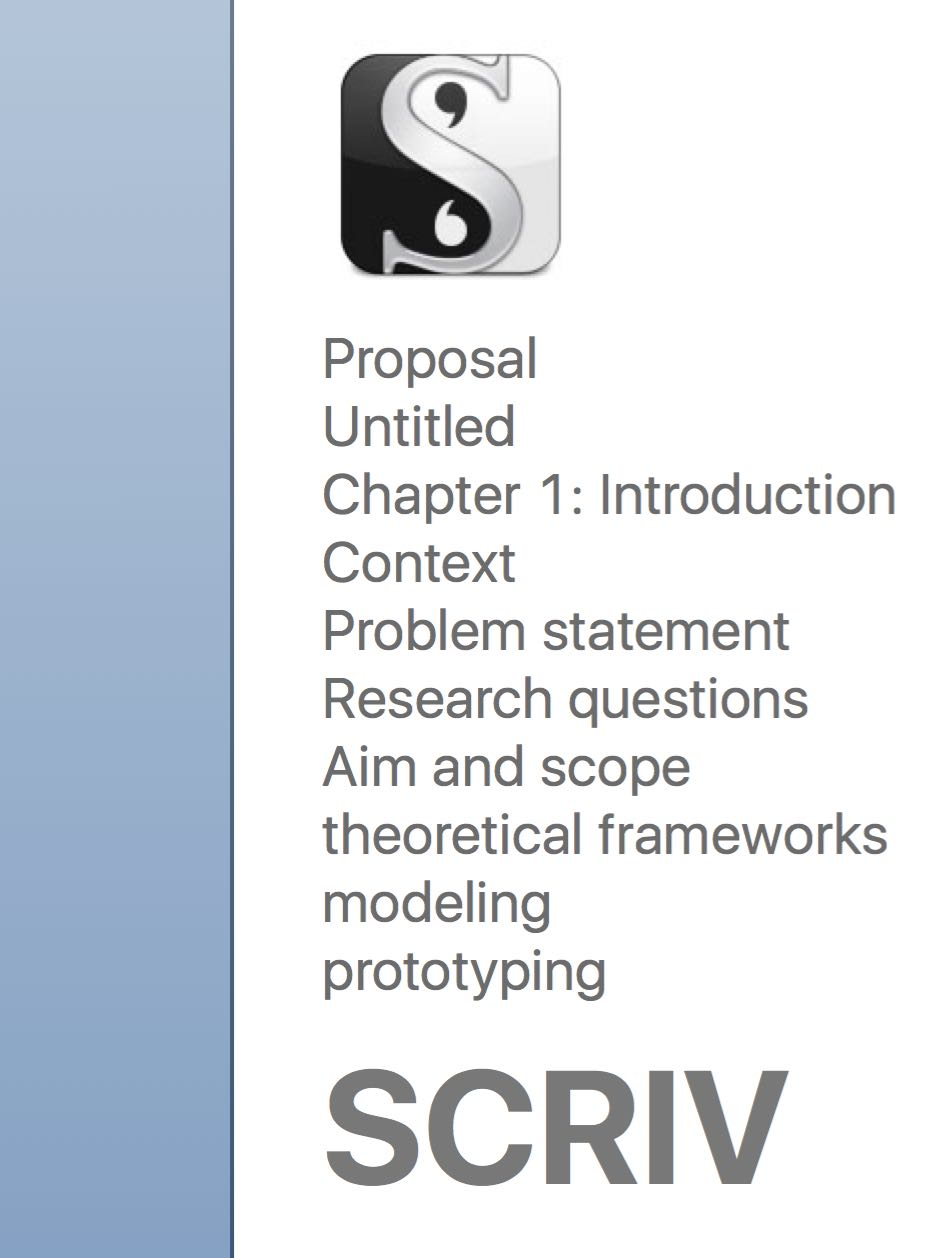
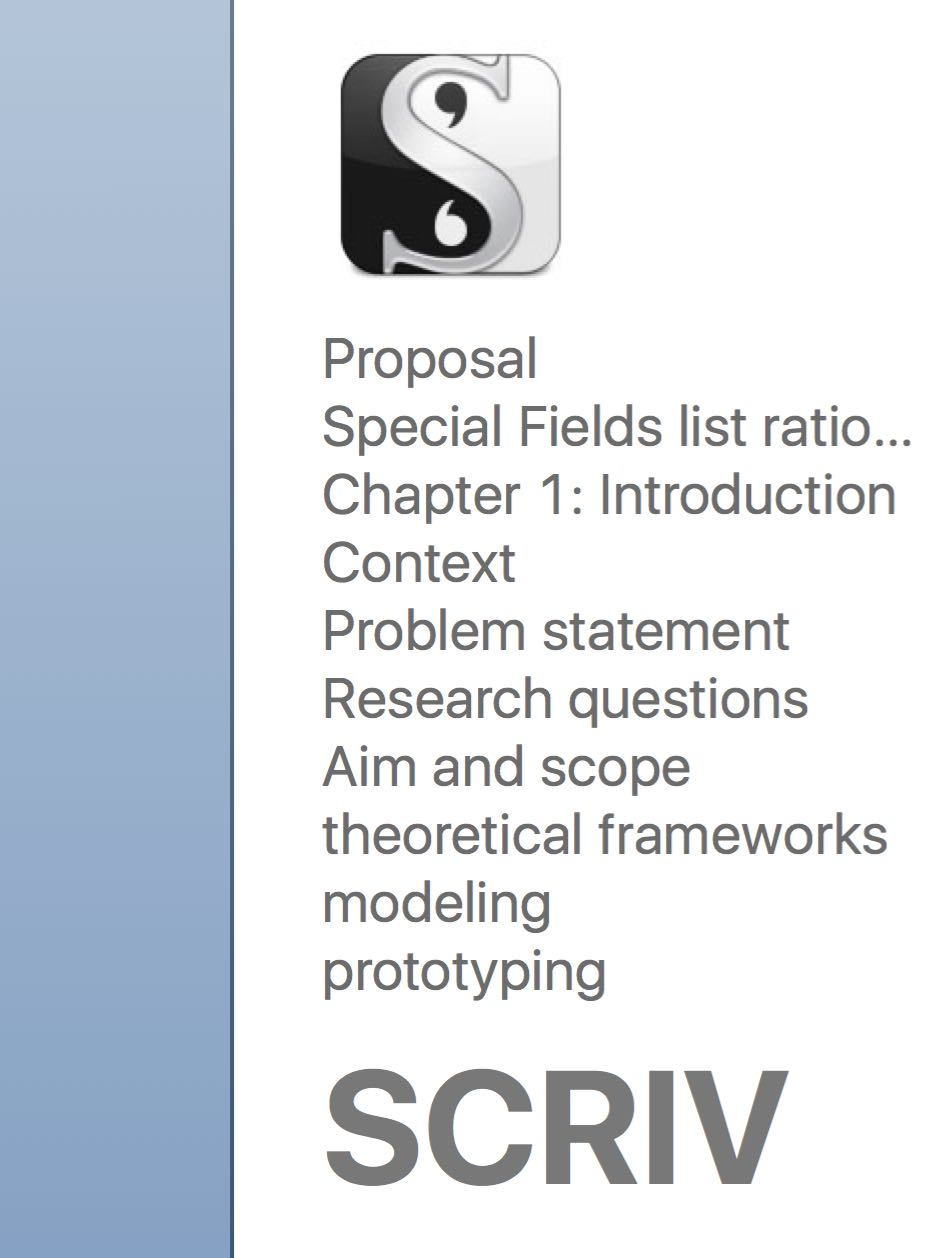
finished special fields rationale

Changed region(s): [[0.3379, 0.31, 0.9216, 0.372]]

diff --git a/writing/DISSERTATION.scriv/QuickLook/Preview.html b/writing/DISSERTATION.scriv/QuickLook/Preview.html
@@ -31,7 +31,7 @@
 <p class="binderItem"><strong>Proposal</strong><br/>This dissertation will build on my previous research on the Gothic novel 1790-1830. Late eighteenth-century literary production, as contemporary writers anxiously noted, was characterized by excessive volume. With more writers and more readers entering the conversation, it became ever harder to make sense of the literary world as a ‘whole.’ My MA research sought to contextualize the Gothic writers Matthew Lewis and Ann Radcliffe in terms of the masses of their now-forgotten peers on the shelves ...</p>
 </li>
 <li>
-<p class="binderItem"><strong>Untitled</strong></p>
+<p class="binderItem"><strong>Special Fields list rationale</strong><br/>Although the dissertation itself will focus narrowly on texts published 1789-99, this reading list seeks to contextualize those works within the fifty-year period 1770-1820. Attention is paid to Romanticism, the Gothic, and sentimental fiction as interrelated literary movements. Major Romantic, Gothic, and sentimental works are selected for their longstanding influence and prevalence in critical conversations. These landmark texts provide the canonical touchstones of the period. To support inqui...</p>
 </li>
 <li>
 <p class="binderItem"><strong>Chapter 1: Introduction</strong><br/>An Introductory Chapter – Tell the reader the problem you are tackling in this project. – State clearly how you aim to deal with this problem. – Limit the scope of your study. – Sketch out how the thesis is structured to achieve your aim.</p>

diff --git a/writing/DISSERTATION.md b/writing/DISSERTATION.md
@@ -49,6 +49,14 @@ Both the macro and the micro views will merge in the question: are my key writer
 
 
 
+
+
+
+
+Although the dissertation itself will focus narrowly on texts published 1789-99, this reading list seeks to contextualize those works within the fifty-year period 1770-1820. Attention is paid to Romanticism, the Gothic, and sentimental fiction as interrelated literary movements. Major Romantic, Gothic, and sentimental works are selected for their longstanding influence and prevalence in critical conversations. These landmark texts provide the canonical touchstones of the period. To support inquiry into popular literature of the period, the list also includes chapbooks, both Gothic and religous, as well as several dramas. Selections of prose non-fiction from the period provide contemporaneous thinking on generic form and the purposes of literature. Secondary criticism sheds light either on the historical period or on the intended computational methodology. Works concerned with the eighteenth century contextualize popular reading practices and relationships between literary modes. The ‘digital humanities’ secondary works emphasize theory over technique. A few titles provide an overview of the great variety of methods and debates currently prevalent in the field, while the majority — including some non-computational works — engage with ideas of ‘distant’ and ‘surface’ reading. Overall, the list balances the key texts of late eighteenth century literature with an interest in ‘the great unread.’
+
+
+
 ----
 
 
